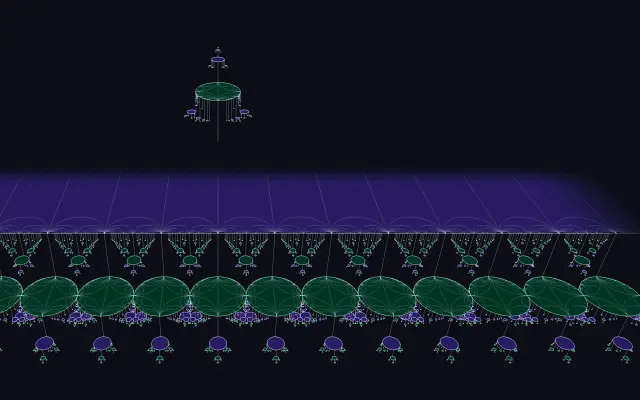
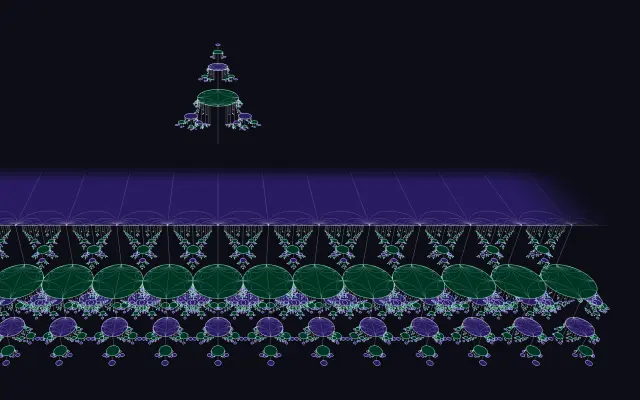
2dimFields: child scale 1 by default; balls built largest first
- The child scale (slider, walkthrough) defaults to 1: each child is the full
  reflected Ford circle or sphere at its cusp.
- Over ℚ(i) and ℚ(ω) the tree of balls is now built largest on screen first:
  a heap holds each ball's next child, and frames are made only for balls
  taken. The 20000-ball budget used to run out inside the first branches of a
  depth-first walk (the bottom of the shape); now every main bulb is built and
  only the smallest specks are dropped. Builds take about 16 ms.
- Switching field moves the camera before building, so the first build is not
  culled against the old view; the default framing grows with the child scale.

Changed region(s): [[0.0, 0.45, 1.0, 0.93], [0.2812, 0.12, 0.4062, 0.33]]

diff --git a/docs/GeometryofLinearGroups/Algebraic/Tools/2dimFields/js/main.js b/docs/GeometryofLinearGroups/Algebraic/Tools/2dimFields/js/main.js
@@ -37,7 +37,7 @@ const MIN_PX = 0.6;       // planes smaller than this (projected radius) are dro
 const DETAIL_PX = 18;     // Farey geodesics and horocycles only on planes at least this big
 const ORTHO_DIST = 60;
 
-const st = { dep: 4, N: 8, lam: 0.6, h: -1, edges: 'q', base: 'half', far: true, hor: false, ortho: false, dur: 1.6, field: 'Q',
+const st = { dep: 4, N: 8, lam: 1, h: -1, edges: 'q', base: 'half', far: true, hor: false, ortho: false, dur: 1.6, field: 'Q',
     palette: 'iris', rule: 'type', carry: false };
 try {       // the colouring is remembered between visits
     const c = JSON.parse(localStorage.getItem('twoDimFields-colour') || '{}');
@@ -661,12 +661,38 @@ function decorOfK(labels, key) {
     return d.C;
 }
 
-function visitBall(K, F, gap, cusps, parent, dep) {
-    const rs = ballPx(F);
-    if (dep > 0 && rs < MIN_PX) return false;
+// The balls are taken largest on screen first, so when the budget runs out it is the smallest
+// specks that are left out, not whole branches of the tree. A binary heap holds, for each ball
+// taken, its next child not yet taken (its cusps come largest first), keyed by an upper bound of
+// that child's size on screen; a child's frame is only made when it is taken.
+function heapPush(h, it) {
+    h.push(it);
+    for (let i = h.length - 1; i > 0;) {
+        const p = (i - 1) >> 1;
+        if (h[p].rs >= h[i].rs) break;
+        [h[p], h[i]] = [h[i], h[p]]; i = p;
+    }
+}
+function heapPop(h) {
+    const top = h[0], last = h.pop();
+    if (h.length) {
+        h[0] = last;
+        for (let i = 0; ;) {
+            const l = 2 * i + 1, r = l + 1;
+            let m = i;
+            if (l < h.length && h[l].rs > h[m].rs) m = l;
+            if (r < h.length && h[r].rs > h[m].rs) m = r;
+            if (m === i) break;
+            [h[m], h[i]] = [h[i], h[m]]; i = m;
+        }
+    }
+    return top;
+}
+
+// Take the ball F if it can be seen; it then offers its first child.
+function addBall(K, F, gap, cusps, parent, dep, rs, heap) {
     const left = st.dep - dep, ext = F.R * (left > 0 ? 1 + 2.2 * (Math.abs(st.h) + st.lam) : 1);
-    if (!frustum.intersectsSphere(bsphere.set(new THREE.Vector3(...F.c), ext))) return false;
-    if (recs.length >= BALLS) { truncated = true; return false; }
+    if (!frustum.intersectsSphere(bsphere.set(new THREE.Vector3(...F.c), ext))) return;
     const idx = recs.length, rec = { F, gap, cusps, parent, dep, rs, key: 'k:' + cusps.map((c) => c.key).join(' ') };
     if (!gIsId && rs > MIN_PX * 4) rec.C = decorOfK(labelsOf(rec), rec.key);
     // its shade; a speck too small to carry a picture takes its parent's when the source matters
@@ -674,23 +700,32 @@ function visitBall(K, F, gap, cusps, parent, dep) {
     else if (rec.C) rec.tc = shadeOf(cusps, cuspsOfK(decor.get(rec.key).src), LK);
     else rec.tc = parent >= 0 ? recs[parent].tc : shadeOf(cusps, cusps, LK);
     recs.push(rec);
-    if (left > 0) {
-        const near = st.ortho ? 1 : Math.max(1e-9, Math.hypot(F.c[0] - camPos.x, F.c[1] - camPos.y, F.c[2] - camPos.z) - ext);
-        for (const c of kCusps(K, st.N, dep === 0)) {
-            const { sigma, ell } = ballChild(c, dep === 0), r = sigma * F.R;
-            if (r * pxk / near < MIN_PX) break;                      // the cusps come largest first
-            const edge = ballGap(ell, F.R);
-            visitBall(K, childBall(F, c, r, edge), edge, [...cusps, c], idx, dep + 1);
-        }
-    }
-    return true;
+    if (left <= 0) return;
+    rec.kids = kCusps(K, st.N, dep === 0);
+    rec.near = st.ortho ? 1 : Math.max(1e-9, Math.hypot(F.c[0] - camPos.x, F.c[1] - camPos.y, F.c[2] - camPos.z) - ext);
+    offerChild(heap, idx, 0);
+}
+function offerChild(heap, p, j) {
+    const P = recs[p], c = P.kids[j];
+    if (!c) return;
+    const est = ballChild(c, P.dep === 0).sigma * P.F.R * pxk / P.near;
+    if (est >= MIN_PX) heapPush(heap, { p, j, rs: est });       // (the rest are smaller still)
 }
 
 function buildBalls() {
     const t0 = performance.now();
     setupCull();
     recs = []; truncated = false;
-    visitBall(KF(), baseBall(), 0, [], -1, 0);
+    const K = KF(), base = baseBall(), heap = [];
+    addBall(K, base, 0, [], -1, 0, ballPx(base), heap);
+    while (heap.length) {
+        if (recs.length >= BALLS) { truncated = true; break; }
+        const { p, j } = heapPop(heap), P = recs[p], c = P.kids[j];
+        offerChild(heap, p, j + 1);
+        const { sigma, ell } = ballChild(c, P.dep === 0), edge = ballGap(ell, P.F.R);
+        const F = childBall(P.F, c, sigma * P.F.R, edge), rs = ballPx(F);
+        if (rs >= MIN_PX) addBall(K, F, edge, [...P.cusps, c], p, P.dep + 1, rs, heap);
+    }
     drawBallRecs(recs);
     hoverIdx = -2;
     lastBuild = performance.now();
@@ -1427,8 +1462,8 @@ function stepFly(now) {
 
 // Frame a rough bounding box of the tree from the front, a little above.
 function defaultView() {
-    const zext = st.edges === 'zero' ? 0 : st.h * (st.edges === 'levels' ? st.dep : 1.7);
-    const E = 1 + 1.2 * st.lam, B = 1 + 0.55 * (Math.abs(st.h) + st.lam);
+    const zext = st.edges === 'zero' ? 0 : st.h * (st.edges === 'levels' ? st.dep : 1.1 + st.lam);   // the chain below sinks about 1 + λ
+    const E = 1 + 1.2 * st.lam, B = 1 + 0.8 * (Math.abs(st.h) + st.lam);
     // on the half-plane, take in the plane at ∞ beyond the top of the strip, and the ray climbing from it
     const half = st.base !== 'disk', [x0, x1, y0, y1] = half ? [-2.4, 2.4, -1 - 0.5 * st.lam, 2 * HALF.RHO + 1] : [-E, E, -E, E];
     let lo = new THREE.Vector3(x0, Math.min(0, zext), -y1), hi = new THREE.Vector3(x1, Math.max(0, zext, half ? -zext : 0), -y0);
@@ -1536,8 +1571,8 @@ function setField(f) {
     const url = new URL(location.href);
     if (k) url.searchParams.set('field', f); else url.searchParams.delete('field');
     history.replaceState(null, '', url);
+    resetView(false);                   // the camera first: the build only keeps what it can see
     build();
-    resetView(false);
 }
 const segField = UI.segmented('seg-field', setField);
 segField.set(st.field);
@@ -1627,7 +1662,7 @@ syncColour();
 // tutorial.js names each step by a state, which this sets up from scratch: the field, the
 // default settings, an example, the current element, t = a and the collapse, and a camera.
 // A step's effect then plays as the buttons would, or (stepping back) is applied at once.
-const TUT_DEFAULTS = { dep: 4, N: 8, lam: 0.6, h: -1, edges: 'q', base: 'half', far: true, hor: false };
+const TUT_DEFAULTS = { dep: 4, N: 8, lam: 1, h: -1, edges: 'q', base: 'half', far: true, hor: false };
 const idle = () => !anim && !queue.length && !spec.run && !spec.act && !specQueue.length;
 const until = (ok) => new Promise((res) => { const t = setInterval(() => { if (ok()) { clearInterval(t); res(); } }, 50); });
 const jobOf = (i, inv) => { const G = gens[i]; return inv ? { M: G.Minv, Minv: G.M, letter: [i, -1] } : { M: G.M, Minv: G.Minv, letter: [i, 1] }; };

diff --git a/docs/GeometryofLinearGroups/Algebraic/Tools/2dimFields/index.html b/docs/GeometryofLinearGroups/Algebraic/Tools/2dimFields/index.html
@@ -135,7 +135,7 @@
       <div class="control-group">
         <div class="slider-row"><label for="dep" class="cayley-label">Depth</label><input id="dep" class="opacity-slider" type="range" min="1" max="6" step="1" value="4"><output id="depO"></output></div>
         <div class="slider-row"><label for="den" id="denL" class="cayley-label">Max q</label><input id="den" class="opacity-slider" type="range" min="2" max="16" step="1" value="8"><output id="denO"></output></div>
-        <div class="slider-row"><label for="lam" class="cayley-label">Child scale</label><input id="lam" class="opacity-slider" type="range" min="0.3" max="1" step="0.05" value="0.6"><output id="lamO"></output></div>
+        <div class="slider-row"><label for="lam" class="cayley-label">Child scale</label><input id="lam" class="opacity-slider" type="range" min="0.3" max="1" step="0.05" value="1"><output id="lamO"></output></div>
         <div class="slider-row"><label for="hgt" class="cayley-label">Edge length</label><input id="hgt" class="opacity-slider" type="range" min="-2" max="2" step="0.05" value="-1"><output id="hgtO"></output></div>
         <div class="slider-row"><label for="dur" class="cayley-label">Animation</label><input id="dur" class="opacity-slider" type="range" min="0.4" max="4" step="0.1" value="1.6"><output id="durO"></output></div>
         <p class="label-hint">Negative edge lengths hang each plane below its parent; 0 flattens the tree into one picture.</p>
